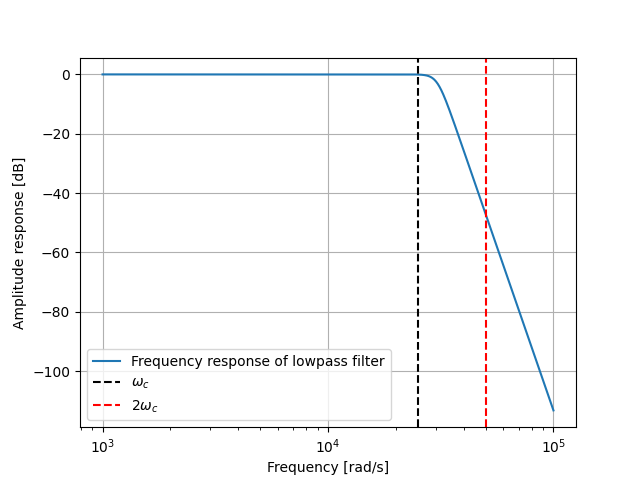
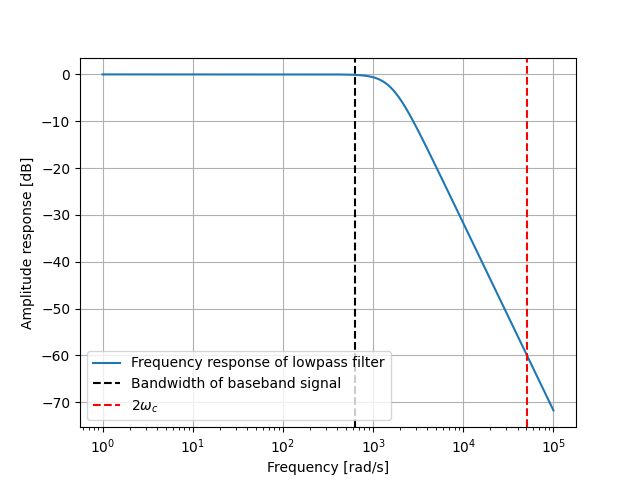
Graphs

diff --git a/filtersbby.py b/filtersbby.py
@@ -31,11 +31,11 @@ plt.savefig("Bandpass")
 plt.clf()
 
 
-lp_wp = 8200*np.pi
-lp_ws = 16000*np.pi
+lp_wp = 200*np.pi
+lp_ws = 15600*np.pi
 
 lp_Ap = 0.1
-lp_As = 45 
+lp_As = 40
 
 lp_Nc, lp_wn = signal.buttord(lp_wp, lp_ws, lp_Ap, lp_As, analog=True)     # filter order
 
@@ -45,10 +45,10 @@ lp_bc, lp_ac = signal.butter(lp_Nc, lp_wn, analog=True)                     # fi
 
 print(lp_bc, lp_ac)
 
-lp_wc, lp_Hc = signal.freqs(lp_bc, lp_ac, np.logspace(3, 5, 500))           # freq response
+lp_wc, lp_Hc = signal.freqs(lp_bc, lp_ac, np.logspace(0, 5, 500))           # freq response
 
 plt.plot(lp_wc, 20 * np.log10(abs(lp_Hc)), label='Frequency response of lowpass filter')
-plt.axvline(8000*np.pi, color='black', linestyle='--', label='$\omega_c$')
+plt.axvline(200*np.pi, color='black', linestyle='--', label='Bandwidth of baseband signal')
 plt.axvline(16000*np.pi, color='red', linestyle='--', label='$2\omega_c$')
 plt.xscale('log')
 plt.xlabel('Frequency [rad/s]')
